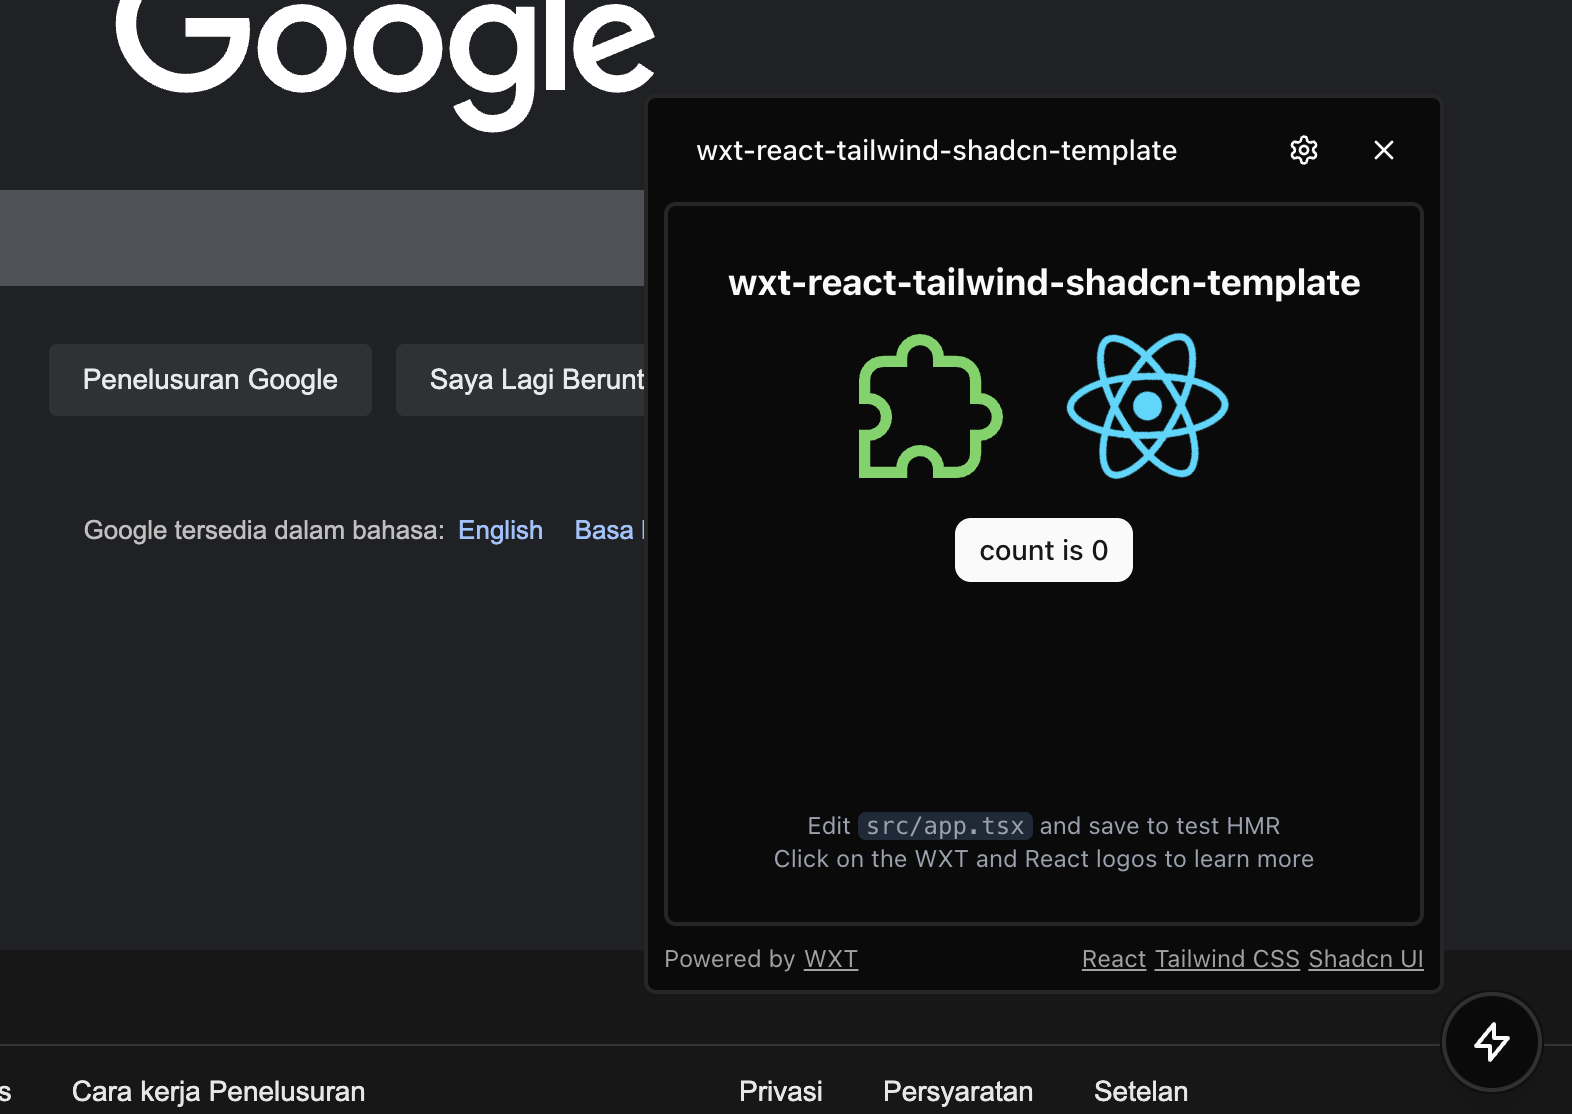
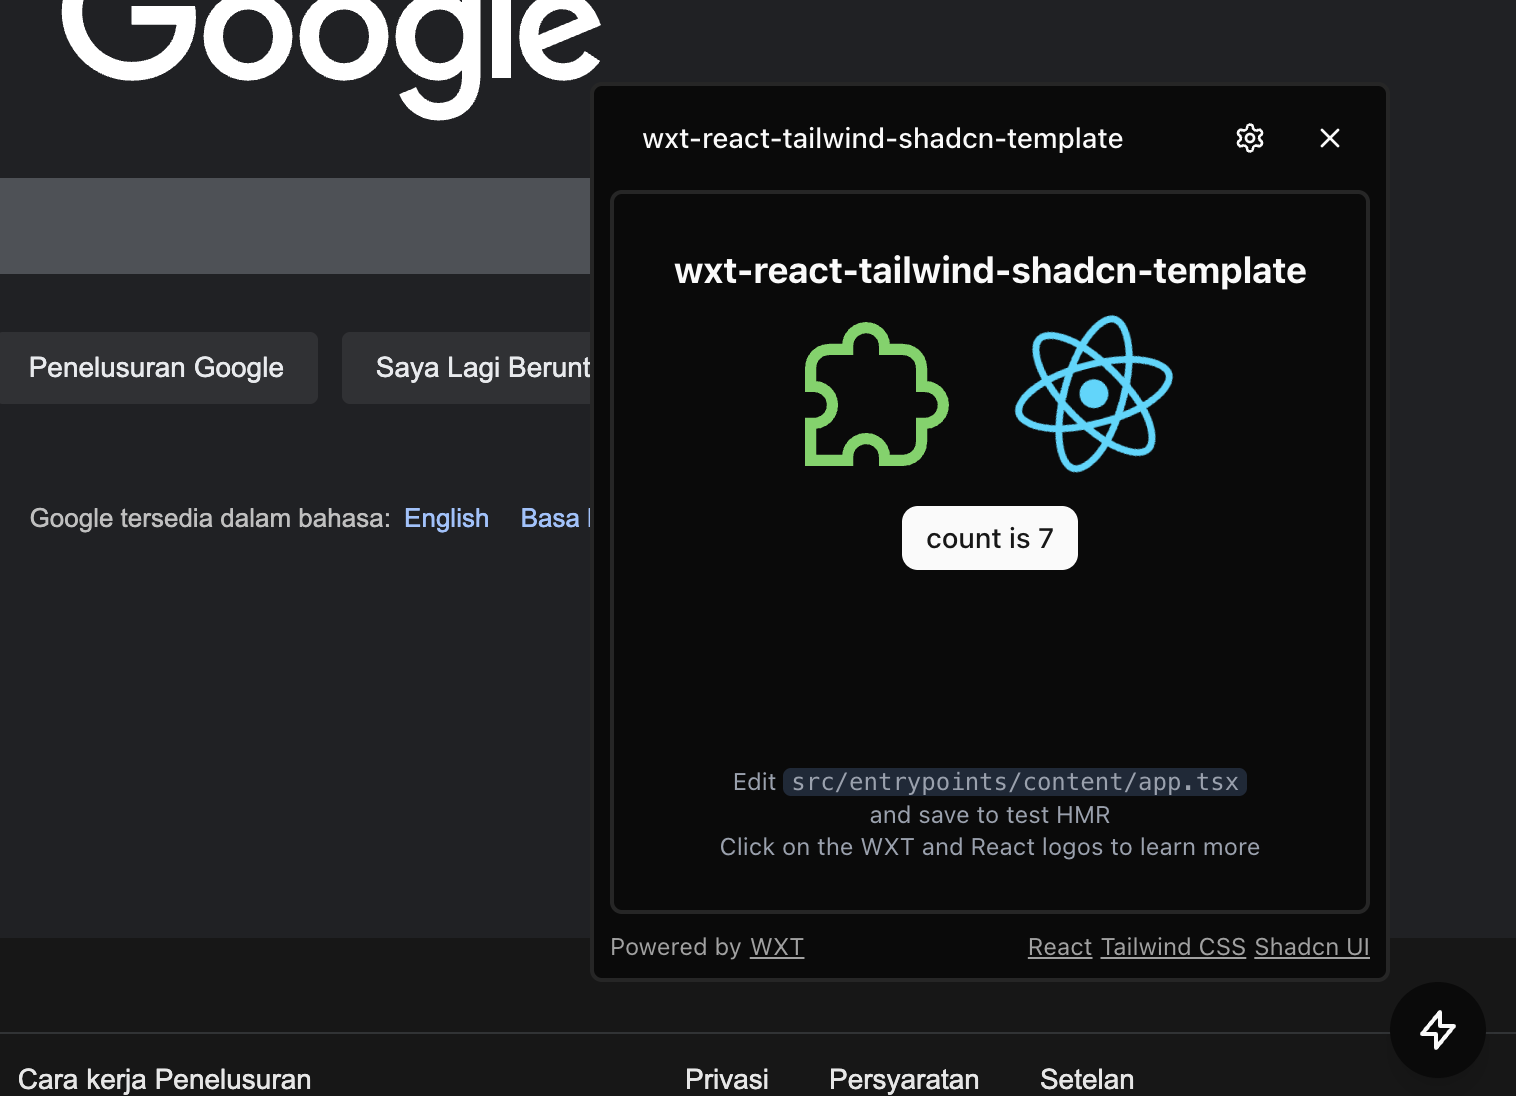
Update file paths, links and component labels in UI and documentation

diff --git a/src/entrypoints/content/app.tsx b/src/entrypoints/content/app.tsx
@@ -58,7 +58,10 @@ const Content = () => {
       <CardFooter className="mt-auto flex flex-col items-center">
         <p className="text-xs text-gray-500 dark:text-gray-400">
           Edit{" "}
-          <code className="font-mono bg-gray-100 dark:bg-gray-800 px-1 rounded">src/app.tsx</code>{" "}
+          <code className="font-mono bg-gray-100 dark:bg-gray-800 px-1 rounded">
+            src/entrypoints/content/app.tsx
+          </code>{" "}
+          <br />
           and save to test HMR
         </p>
         <p className="text-xs text-gray-500 dark:text-gray-400">

diff --git a/src/components/settings/floating-button-field.tsx b/src/components/settings/floating-button-field.tsx
@@ -45,10 +45,10 @@ export const FloatingButtonField = ({ onSavingStateChange }: FloatingButtonField
 
   return (
     <div className="grid grid-cols-3 items-center gap-4">
-      <Label htmlFor="showFloatingActionButton">Show Floating Button</Label>
+      <Label htmlFor="floatingActionButton">Floating Button</Label>
       <div className="flex items-center col-span-2">
         <Switch
-          id="showFloatingActionButton"
+          id="floatingActionButton"
           checked={value}
           onCheckedChange={handleChange}
           className="mr-2"

diff --git a/src/components/popup-panel.tsx b/src/components/popup-panel.tsx
@@ -87,7 +87,7 @@ export function PopupPanel({
           <a href="https://tailwindcss.com" className="underline">
             Tailwind CSS
           </a>
-          <a href="https://shadcn.com" className="underline">
+          <a href="https://ui.shadcn.com" className="underline">
             Shadcn UI
           </a>
         </div>

diff --git a/README.md b/README.md
@@ -92,6 +92,7 @@ A modern, opinionated template for building browser extensions with WXT, React, 
 ├── src/
 │   ├── assets/             # Static assets used in the application
 │   ├── components/         # Reusable React components
+│   │   ├── settings/       # Settings components
 │   │   └── ui/             # shadcn/ui components
 │   ├── constants/          # Application constants
 │   ├── context/            # React context providers
